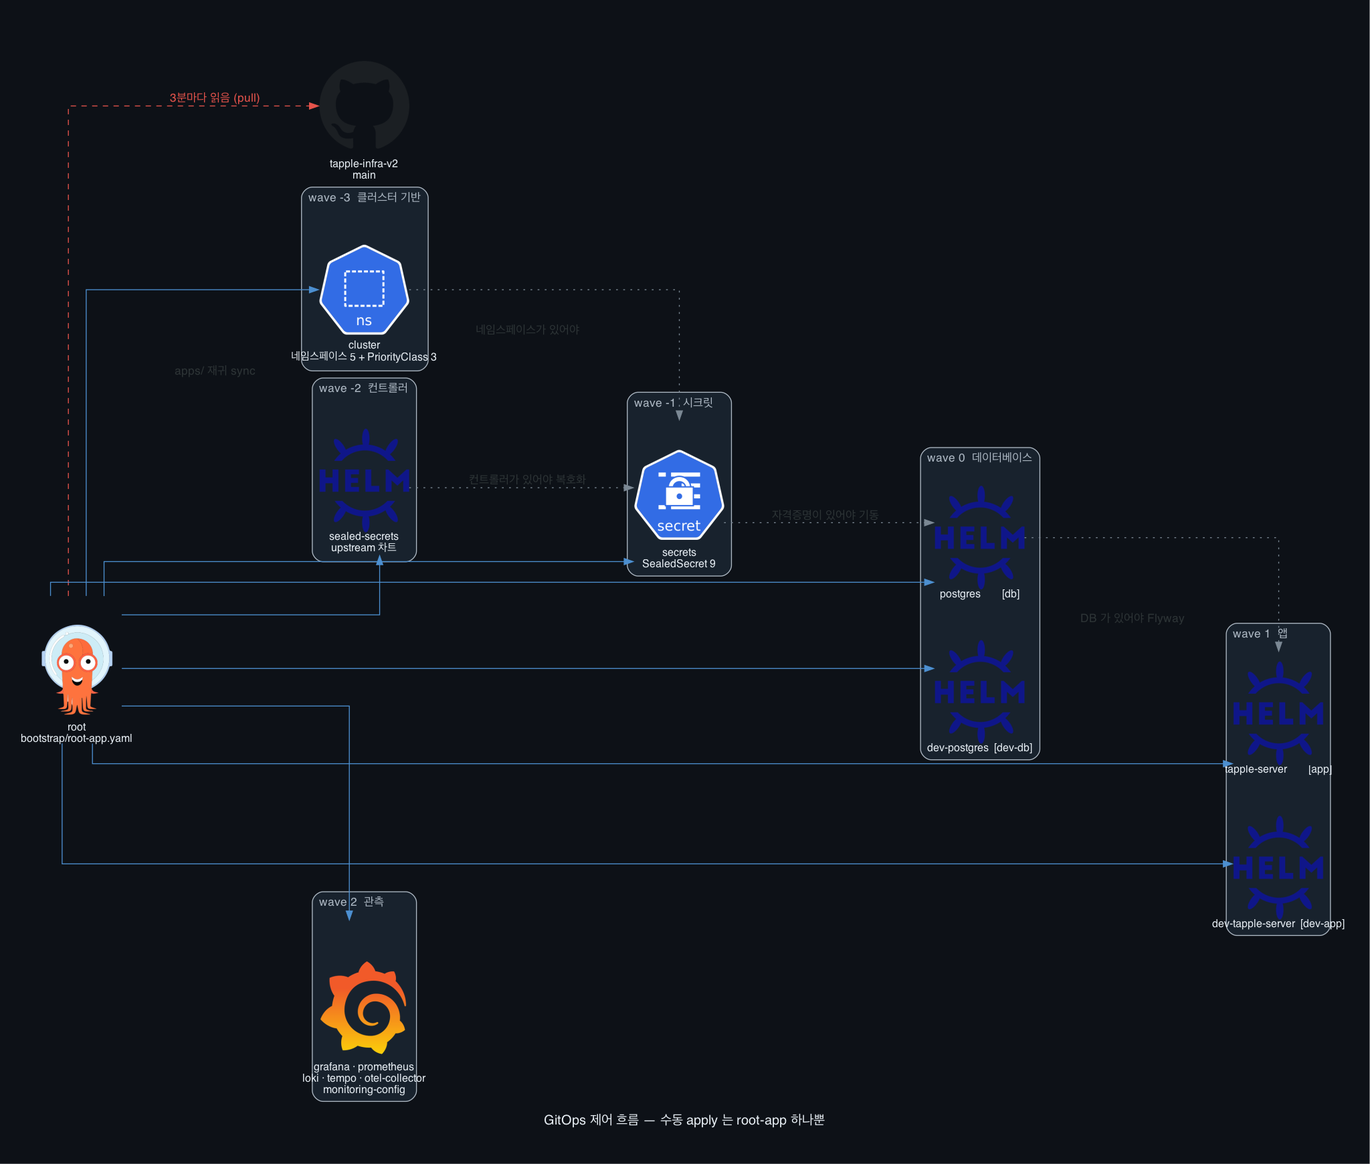
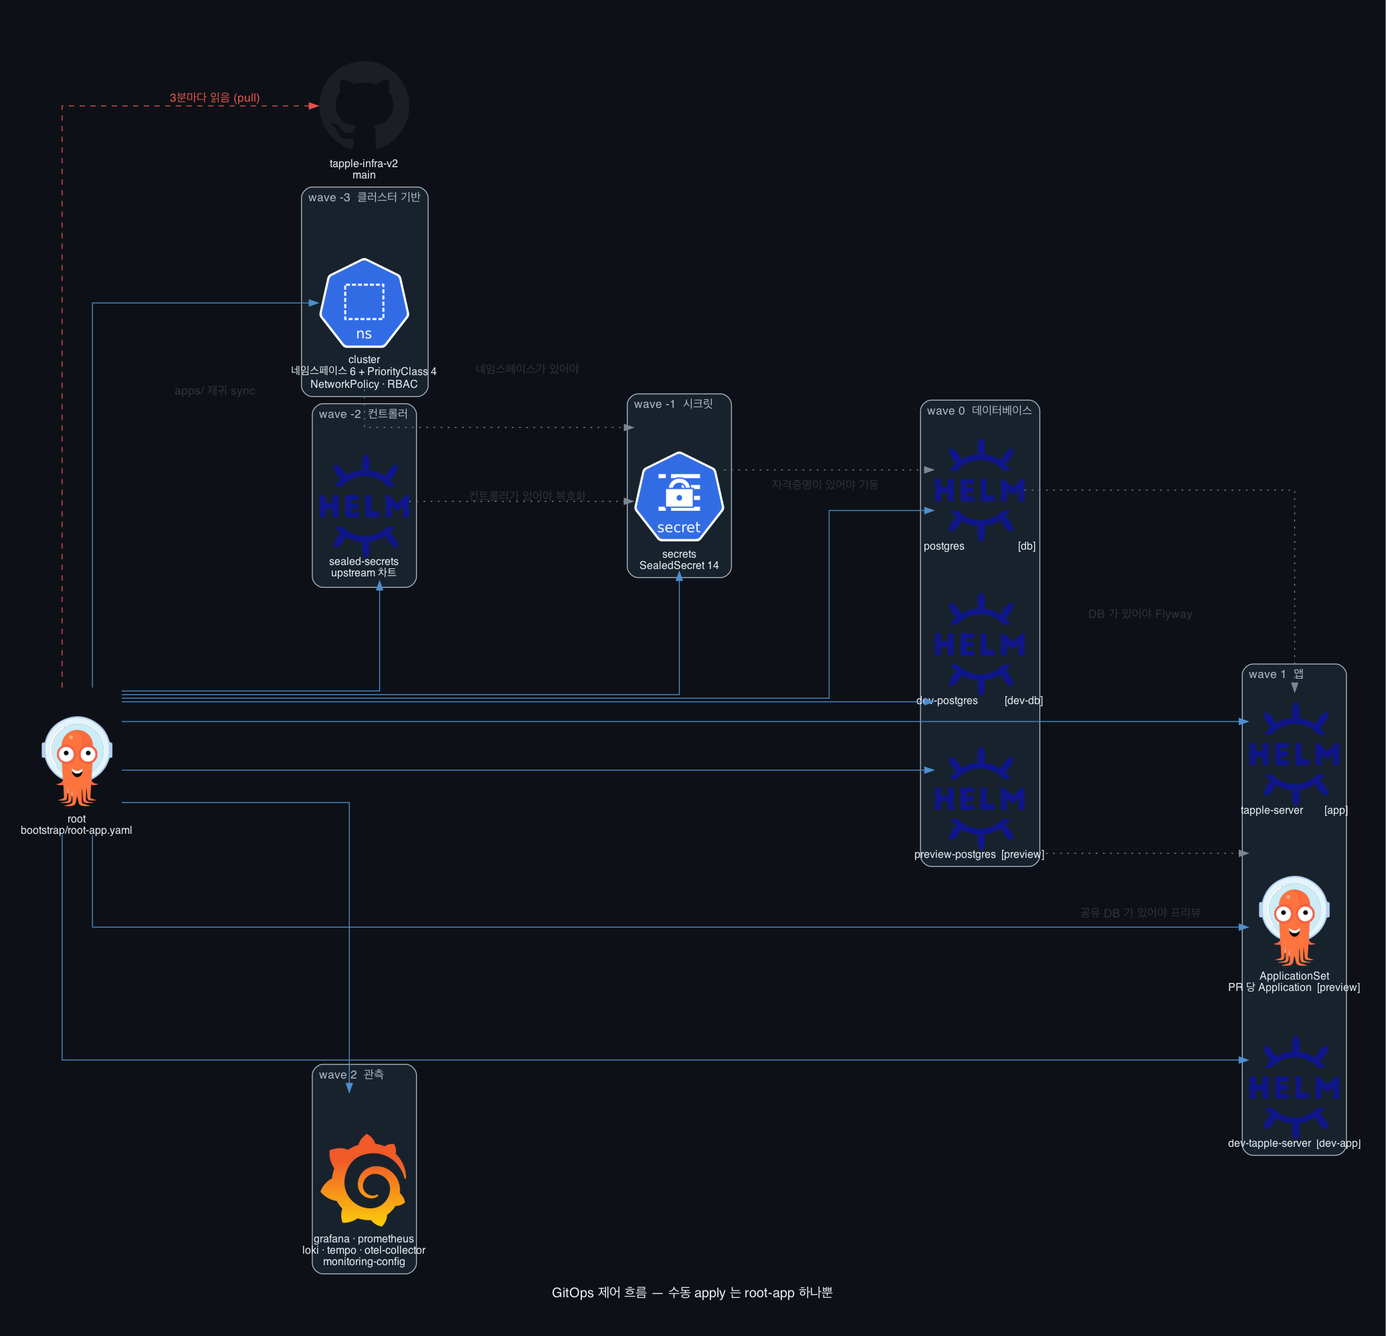
docs: README 를 지금 클러스터 사실에 맞춤 + 함정 모음 추가
낡은 사실 정정: Application 13→14(+ApplicationSet 이 런타임에 더 만듦),
네임스페이스 5→6, PriorityClass 3→4, SealedSecret 9→14.
gitops-tree 다이어그램도 같은 이유로 재생성했다(preview 두 항목 추가).

추가한 것
- PR 프리뷰 그림·요약 (지금까지 트리와 표에만 있었다)
- 네트워크 격리 절 — NetworkPolicy 대상과 port-forward 가 대상이 아닌 이유
- "실측으로 잡은 함정" 절 — netpol 반영 지연, PVC 마운트, PostSync 훅 미실행,
  Job spec 불변, volumeClaimTemplates 불변, pods/portforward 판정, ipset 바이너리 부재
- 로컬 검증에 preview 렌더 + 서버 dry-run 한계
- TODO 정리: 도메인+TLS 가 구글 로그인을 막는다는 사실을 최상단으로,
  프리뷰·netpol·PVC·팀원 접속·씰링 워크플로·BE k3s 프로파일을 완료로

diff --git a/docs/diagrams/gitops_tree.py b/docs/diagrams/gitops_tree.py
@@ -40,21 +40,25 @@ def build(theme: dict) -> None:
         root = Argocd("root\nbootstrap/root-app.yaml")
 
         with Cluster("wave -3  클러스터 기반", graph_attr=ca):
-            cluster_app = Namespace("cluster\n네임스페이스 5 + PriorityClass 3")
+            cluster_app = Namespace(
+                "cluster\n네임스페이스 6 + PriorityClass 4\nNetworkPolicy · RBAC"
+            )
 
         with Cluster("wave -2  컨트롤러", graph_attr=ca):
             sealed = Helm("sealed-secrets\nupstream 차트")
 
         with Cluster("wave -1  시크릿", graph_attr=ca):
-            secrets = Secret("secrets\nSealedSecret 9")
+            secrets = Secret("secrets\nSealedSecret 14")
 
         with Cluster("wave 0  데이터베이스", graph_attr=ca):
-            pg = Helm("postgres        [db]")
-            pg_dev = Helm("dev-postgres  [dev-db]")
+            pg = Helm("postgres                    [db]")
+            pg_dev = Helm("dev-postgres          [dev-db]")
+            pg_prev = Helm("preview-postgres  [preview]")
 
         with Cluster("wave 1  앱", graph_attr=ca):
             app = Helm("tapple-server        [app]")
             app_dev = Helm("dev-tapple-server  [dev-app]")
+            appset = Argocd("ApplicationSet\nPR 당 Application  [preview]")
 
         with Cluster("wave 2  관측", graph_attr=ca):
             mon = Grafana("grafana · prometheus\nloki · tempo · otel-collector\nmonitoring-config")
@@ -64,8 +68,10 @@ def build(theme: dict) -> None:
         root >> Edge(color=WAVE) >> secrets
         root >> Edge(color=WAVE) >> pg
         root >> Edge(color=WAVE) >> pg_dev
+        root >> Edge(color=WAVE) >> pg_prev
         root >> Edge(color=WAVE) >> app
         root >> Edge(color=WAVE) >> app_dev
+        root >> Edge(color=WAVE) >> appset
         root >> Edge(color=WAVE) >> mon
 
         root >> Edge(label="3분마다 읽음 (pull)", style="dashed", color=DEP, fontcolor=DEP) >> repo
@@ -75,6 +81,7 @@ def build(theme: dict) -> None:
         sealed >> Edge(label="컨트롤러가 있어야 복호화", style="dotted") >> secrets
         secrets >> Edge(label="자격증명이 있어야 기동", style="dotted") >> pg
         pg >> Edge(label="DB 가 있어야 Flyway", style="dotted") >> app
+        pg_prev >> Edge(label="공유 DB 가 있어야 프리뷰", style="dotted") >> appset
 
 
 if __name__ == "__main__":

diff --git a/README.md b/README.md
@@ -5,12 +5,14 @@
 앱 코드는 [tapple-be](https://github.com/Tapplee/tapple-be), AWS 시절 인프라와 **모니터링 대시보드 원본**은 [tapple-infra](https://github.com/Tapplee/tapple-infra)(v1), 부하 리그는 [tapple-loadtest](https://github.com/Tapplee/tapple-loadtest).
 
 > 현재 상태: **임시 VPS에서 검증 중** (8 vCPU/31GB Ubuntu 24.04). ingress host는 그 VPS의 `nip.io` 주소로 잡혀 있다. iwinv 노드로 옮길 때 values의 host 두 줄만 실도메인으로 교체.
+>
+> 2026-08-12 기준 **Application 15개 전부 Synced/Healthy**. 돌아가는 것: prod·dev 두 환경, PR 프리뷰(PR 당 임시 환경), DB 네트워크 격리, 팀원 최소권한 DB 접속, 모니터링 스택. **실운영은 아직 홈서버 + 로컬 compose 다.** 컷오버는 도메인+TLS 뒤.
 
 **이 레포는 public이다.** SealedSecret 암호문만 커밋하고 평문 시크릿은 절대 올리지 않는다(secret scanning + push protection 켜져 있음). ArgoCD는 public 레포라 자격증명 없이 pull한다 — private로 되돌리면 deploy key 등록이 필요해진다.
 
 ## 그림으로 보기
 
-> 2026-08-11 클러스터 스냅샷. 재생성 절차는 [docs/diagrams/README.md](docs/diagrams/README.md).
+> 2026-08-12 클러스터 스냅샷. 재생성 절차는 [docs/diagrams/README.md](docs/diagrams/README.md). CI 자동화는 없다 — 구조가 바뀌면 손으로 다시 뽑는다.
 
 **아키텍처** — 앱·DB 네임스페이스의 실제 리소스. 라이브 클러스터에서 KubeDiagrams 로 파생시킨 것이라 이 시점의 사실이다.
 
@@ -40,7 +42,7 @@
   <img alt="push에서 GitHub Actions·ghcr·인프라 레포 태그 커밋을 거쳐 ArgoCD가 pull 배포하는 흐름" src="docs/diagrams/out/cicd-flow.png">
 </picture>
 
-**브랜치 하나가 올라가는 길** — 기능 브랜치를 따서 dev 를 거쳐 prod 까지 가는 순서와, 잘못됐을 때 되돌리는 두 경로. 혼자 운영하는 전제로 그렸다. **주황이 사람이 눌러야 하는 것, 파랑이 자동, 빨강이 되돌리기**다.
+**브랜치 하나가 올라가는 길** — 기능 브랜치를 따서 dev 를 거쳐 prod 까지 가는 순서와, 잘못됐을 때 되돌리는 두 경로. **주황이 사람이 눌러야 하는 것, 파랑이 자동, 빨강이 되돌리기**다. 여러 명이 동시에 작업할 때 `dev` 를 서로 덮는 문제는 아래 PR 프리뷰가 담당한다.
 
 <picture>
   <source media="(prefers-color-scheme: dark)"  srcset="docs/diagrams/out/branch-flow-dark.png">
@@ -59,12 +61,24 @@
 
 급하면 ⓐ 로 막고, ⓑ 로 마무리한다. ⓐ 만 하고 끝내면 다음 sync 에서 되살아난다.
 
-**GitOps 제어 흐름** — 수동 apply 는 `bootstrap/root-app.yaml` 하나뿐이고, 나머지 13개 Application 은 그것이 만든다. 점선이 순서 의존(sync wave)이다.
+**PR 프리뷰** — PR 하나마다 그 브랜치만의 서버가 뜬다. `dev` 환경이 하나뿐이라 여러 명이 각자 확인하려면 `dev` 에 머지해야 하고, 나중에 머지한 사람이 앞사람 걸 덮는다. 그 문제를 없앤다. 사용법은 [docs/preview-environments.md](docs/preview-environments.md).
+
+<picture>
+  <source media="(prefers-color-scheme: dark)"  srcset="docs/diagrams/out/preview-env-dark.png">
+  <source media="(prefers-color-scheme: light)" srcset="docs/diagrams/out/preview-env.png">
+  <img alt="PR에 preview 라벨을 붙이면 이미지 빌드·ApplicationSet 감지를 거쳐 임시 환경이 생기고, PR을 닫으면 사라지는 흐름" src="docs/diagrams/out/preview-env.png">
+</picture>
+
+`preview` 라벨을 붙이면 3~5분 뒤 `pr-<번호>.api.<호스트>` 가 뜨고, PR 을 닫으면 사라진다. **라벨이 곧 자리 예약**이라 다 본 PR 은 떼야 한다 — 동시 6개가 상한이다.
+
+**GitOps 제어 흐름** — 수동 apply 는 `bootstrap/root-app.yaml` 하나뿐이고, 나머지 14개 Application 은 그것이 만든다. 점선이 순서 의존(sync wave)이다.
+
+`preview` 의 ApplicationSet 만 성질이 다르다 — Application 을 **런타임에 더 만든다**. Git 에 없는 Application 이 클러스터에 생기는 유일한 경로다.
 
 <picture>
   <source media="(prefers-color-scheme: dark)"  srcset="docs/diagrams/out/gitops-tree-dark.png">
   <source media="(prefers-color-scheme: light)" srcset="docs/diagrams/out/gitops-tree.png">
-  <img alt="root-app 하나가 wave -3부터 2까지 13개 Application을 만드는 구조" src="docs/diagrams/out/gitops-tree.png">
+  <img alt="root-app 하나가 wave -3부터 2까지 14개 Application을 만들고, preview의 ApplicationSet이 PR마다 Application을 더 만드는 구조" src="docs/diagrams/out/gitops-tree.png">
 </picture>
 
 ## 구조
@@ -75,7 +89,7 @@
 bootstrap/root-app.yaml     재구축 시 수동 apply하는 유일한 파일 (app-of-apps 루트)
 apps/                       ArgoCD Application 정의 — root가 재귀 sync
   platform/                 환경 공용
-    cluster.yaml              wave -3  → manifests/cluster/ (네임스페이스·PriorityClass)
+    cluster.yaml              wave -3  → manifests/cluster/ (네임스페이스·PriorityClass·RBAC)
     sealed-secrets.yaml       wave -2  upstream 차트 (시크릿 복호화 컨트롤러)
     secrets.yaml              wave -1  → secrets/ (prod·dev 모두 커버)
     monitoring/               wave 2   기존 compose 스택 이식 — prod·dev 공유
@@ -88,18 +102,21 @@ apps/                       ArgoCD Application 정의 — root가 재귀 sync
   preview/                    PR 프리뷰 — docs/preview-environments.md
     postgres.yaml               공유 DB 1대                          [preview]
     applicationset.yaml         PR 하나당 Application 자동 생성·삭제
-charts/tapple-server/       자작 Helm 차트 (환경 공용) + values.yaml(prod)·values-dev.yaml
-manifests/cluster/          네임스페이스 5개 + PriorityClass 3종
-manifests/postgres/         prod DB — StatefulSet·Service·백업 CronJob
-manifests/postgres-dev/     dev DB — 축소판 (백업 없음, 우선순위 최하)
+charts/tapple-server/       자작 Helm 차트 (환경 공용) + values.yaml(prod)·values-dev.yaml·values-preview.yaml
+manifests/cluster/          네임스페이스 6개 + PriorityClass 4종 + team-access.yaml (팀원 RBAC)
+manifests/postgres/         prod DB — StatefulSet·Service·NetworkPolicy·백업 CronJob·읽기전용 롤 Job
+manifests/postgres-dev/     dev DB — 축소판 (백업 없음, 우선순위 최하) + NetworkPolicy
 manifests/postgres-preview/ 프리뷰 공유 DB + 고아 database 정리 CronJob
 manifests/monitoring/       대시보드 7개 + 알림 규칙 ConfigMap — 전부 gen-configmaps.py 산출물, 직접 고치지 말 것
-secrets/                    kubeseal로 암호화된 SealedSecret만 (평문 금지 — secrets/README.md)
+secrets/                    kubeseal로 암호화된 SealedSecret 14종 (평문 금지 — secrets/README.md)
 infra/                      노드 부트스트랩 셸 스크립트 (Phase 1~2)
 scripts/gen-configmaps.py   v1의 대시보드·규칙 원본 → ConfigMap 변환
+scripts/gen-team-kubeconfig.sh  팀원용 SA 토큰 kubeconfig 발급 (기본 90일)
+.github/workflows/seal-secret.yml  SSH 없이 시크릿 재씰링 — Actions 금고 값을 읽어 secrets/ 에 커밋
 runbooks/                   재해 복구 절차
 docs/db-access.md           팀원 DB 접속 가이드 (port-forward + 최소권한 RBAC)
 docs/preview-environments.md  PR 프리뷰 사용법 — 팀원이 먼저 읽을 문서
+docs/diagrams/              위 그림들의 생성 스크립트 (직접 실행, CI 자동화 없음)
 ```
 
 ## 동작 원리 (한 줄씩)
@@ -109,6 +126,8 @@ docs/preview-environments.md  PR 프리뷰 사용법 — 팀원이 먼저 읽을
 - **앱만 Helm**: 배포마다 바뀌는 값(image.tag)이 있는 건 앱뿐. DB는 바뀔 값이 없어 raw yaml (D17·D19).
 - **upstream은 vendoring 안 함** (D16): Application 안에 차트 repo URL + `valuesObject`만.
 - **배포 트리거는 앱 레포**: tapple-be의 `cd-gitops.yml`이 ghcr에 이미지를 밀고 이 레포의 `image.tag` 한 줄을 커밋한다. ArgoCD가 그걸 감지해 배포.
+- **프리뷰는 Git 에 없다**: ApplicationSet 이 GitHub PR 목록을 2분마다 읽어 `preview` 라벨이 붙은 PR 만큼 Application 을 만든다. 라벨을 떼거나 PR 을 닫으면 지운다 — 커밋이 필요 없는 유일한 배포 경로다.
+- **시크릿은 레포에서 다시 만든다**: 클러스터에 SSH 하지 않는다. Actions 금고에 값을 넣고 `seal-secret.yml` 을 돌리면 워크플로가 공개 인증서로 씰링해 `secrets/` 에 커밋한다.
 
 ## 모니터링 원본은 이 레포가 아니다
 
@@ -148,6 +167,18 @@ python3 scripts/gen-configmaps.py /다른/경로/config       # 원본 위치가
 
 **동시 프리뷰는 6개까지다.** 노드 여유(9.8Gi)를 PR 당 1Gi 로 나눈 값이고, 7번째는 `Pending` 에서 멈춘다. `preview` 라벨이 곧 자리 예약이라 다 본 PR 은 라벨을 떼야 한다.
 
+## 네트워크 격리
+
+**네임스페이스는 이름만 나눈다. 네트워크는 막지 않는다.** NetworkPolicy 가 없으면 `monitoring` 이든 `preview` 든 어느 파드에서나 `postgres.db.svc:5432` 에 붙을 수 있다. 프리뷰처럼 짧게 살다 사라지는 워크로드가 늘수록 위험해지므로 DB 두 대를 닫았다.
+
+| 대상 | 허용 | 파일 |
+|---|---|---|
+| prod DB | `app` · `db` 네임스페이스만 | `manifests/postgres/networkpolicy.yaml` |
+| dev DB | `dev-app` · `dev-db` 네임스페이스만 | `manifests/postgres-dev/networkpolicy.yaml` |
+| 프리뷰 DB | 제한 없음 | 프리뷰 전용 데이터라 의도적으로 열어둠 |
+
+팀원의 `kubectl port-forward` 는 **NetworkPolicy 대상이 아니다** — kubelet 이 노드에서 프록시하므로 파드 간 트래픽이 아니다. 그 경로의 접근 통제는 RBAC(`manifests/cluster/team-access.yaml`)이 한다.
+
 ## 리소스 예산 (8 vCPU / 32GB 노드)
 
 `system-reserved`로 OS+k3s 몫 2Gi/1000m을 떼면 **allocatable ≈ 30Gi / 7 vCPU**.
@@ -177,13 +208,22 @@ helm template dev-tapple-server charts/tapple-server \
   -f charts/tapple-server/values.yaml \
   -f charts/tapple-server/values-dev.yaml --set image.tag=test
 
+# preview 렌더 (ApplicationSet 이 넘기는 값은 --set 으로 흉내낸다)
+helm template tapple-preview-27 charts/tapple-server \
+  -f charts/tapple-server/values.yaml \
+  -f charts/tapple-server/values-preview.yaml \
+  --set image.tag=test --set fullnameOverride=tapple-server-pr-27 \
+  --set createDatabase.name=tapple_pr27
+
 helm lint charts/tapple-server --set image.tag=test
 ```
+
+클러스터가 있으면 `kubectl apply --dry-run=server -f <파일>` 이 훨씬 많이 잡는다 — 불변 필드 위반은 이것만 잡는다. **단 Job 은 spec 이 불변이라 이 검사를 통과할 수 없다**(위 함정 항목).
 
 ## 노드에 올리는 순서
 
 ```
-①infra/node-bootstrap.sh  →  ②infra/k3s-setup.sh  →  ③시크릿 9종  →  앱 Running
+①infra/node-bootstrap.sh  →  ②infra/k3s-setup.sh  →  ③시크릿 14종  →  앱 Running
 ```
 
 ②의 마지막 스텝이 `bootstrap/root-app.yaml`을 apply하고, 그때 sealed-secrets 컨트롤러가 뜬다. 시크릿을 **새로 만들어야 하는 경우**엔 그 뒤에만 가능하다(클러스터 공개키로 암호화) — 그전까지 DB·grafana·alertmanager 파드는 `CreateContainerConfigError`가 정상이다.
@@ -192,22 +232,49 @@ helm lint charts/tapple-server --set image.tag=test
 
 앱 파드는 `image.tag`가 비어 있으면 Application이 `Unknown`으로 남는다(의도된 가드). tapple-be의 `cd-gitops.yml`이 태그를 커밋해야 뜬다.
 
+## 실측으로 잡은 함정
+
+읽어서는 안 나오고 돌려봐야 나온 것들. 매니페스트 주석에도 같은 내용이 붙어 있다.
+
+**DB 에 붙는 Job 이 `Connection refused` 로 즉사한다.** k3s 의 NetworkPolicy 구현(kube-router)은 허용 대상 파드 IP 를 ipset 으로 관리하는데, 파드가 뜬 직후에는 그 IP 가 아직 셋에 없다. 그 창의 패킷은 `KUBE-POD-FW-*` 마지막 `REJECT --reject-with icmp-port-unreachable` 에 걸려 **timeout 이 아니라 refused** 로 돌아온다 — 그래서 방화벽 문제로 보이지 않는다. 오래 사는 파드는 재시도로 넘어가고 짧게 살다 죽는 Job 만 걸린다. 대응: 접속 전 `pg_isready` 대기 루프(최대 120초). `postgres-readonly-role` Job 이 이걸로 조용히 Failed 가 돼 `tapple_ro` 롤이 사라져 있었다.
+
+**PVC 를 한 단계 위에 마운트하면 데이터가 조용히 사라진다.** `postgres:16` 이미지가 `/var/lib/postgresql/data` 를 `VOLUME` 으로 선언하므로 PVC 를 그 부모에 마운트하면 containerd 익명 볼륨이 PVC 를 덮는다. 쓰기는 성공하고 조회도 되는데 파드를 지우면 전부 날아간다. 원안이 `postgres:18` 기준이었고 16 으로 내리며 경로를 안 바꾼 것이 원인. 대응: `mountPath` 를 그 경로에 정확히 맞추고 `PGDATA` 를 그 하위(`/pgdata`)로.
+
+**ArgoCD PostSync 훅이 이 클러스터에서 실행되지 않는다.** 컨트롤러가 매 sync 계획에는 넣으면서 실행 단계에서 `skipHooks:true` 로 건너뛴다. 대응: 계정 생성 같은 필수 작업은 훅이 아니라 추적 리소스(Job)로 둔다.
+
+**Job 의 spec 은 불변이라 `apply` 로 못 고친다.** `Replace=true` 만 주면 `kubectl replace` 가 되는데 Job 의 `spec.selector` 는 컨트롤러가 만드는 값이라 매니페스트에 없다 → `spec.selector: Required value` 로 거부된다. 대응: `sync-options: Force=true,Replace=true`(삭제 후 재생성). **처음 생성될 때는 create 라 드러나지 않고 매니페스트를 고친 뒤에야 터진다.**
+
+**StatefulSet 의 `volumeClaimTemplates` 는 불변이다.** 라벨 하나만 추가해도 기존 워크로드 갱신이 admission 에서 거부된다. 대응: 손대기 전에 `kubectl apply --dry-run=server` 로 확인.
+
+**`kubectl auth can-i create pods/portforward` 는 권한이 있어도 `no` 를 답한다**(kubectl 1.36). 슬래시를 서브리소스로 해석하지 않는다. 대응: `--subresource=portforward`.
+
+**노드에 `ipset` 바이너리가 없다.** 그래서 `ipset list` 가 조용히 빈 출력을 내는데, 셋이 비었다고 오독하기 쉽다. netpol 을 파볼 때 `apt-get install ipset` 먼저.
+
+PR 프리뷰 쪽 함정 4개(라벨 필터 위치, sprig `substr` 인자 순서, PR 이벤트의 머지 커밋 체크아웃, URL 계열을 시크릿에 넣으면 안 되는 이유)는 [docs/preview-environments.md](docs/preview-environments.md#밟기-쉬운-함정-구축-중-실제로-밟은-것) 에 있다.
+
 ## 남은 TODO
 
+- [ ] **도메인 + TLS** — 지금은 nip.io `http`. **이것 때문에 k3s 세 환경(prod·dev·preview) 전부 구글 로그인이 안 된다** (Google OAuth 는 리다이렉트 URI 사전 등록 + HTTPS 요구). 로그인 화면 확인은 홈서버에서. 고칠 곳은 `values.yaml`·`values-dev.yaml` 의 `ingress.host` 와 ApplicationSet 의 프리뷰 호스트
 - [ ] Discord webhook 실값 — 지금은 더미라 알림이 아무데도 가지 않는다 (홈서버 `.env`도 `CHANGEME`)
-- [ ] 컷오버 전 로테이션 — AWS 키·Google 시크릿·JWT 키. 지금 클러스터엔 앞 둘이 더미로 들어가 있다
-- [ ] `ghcr-pull` 시크릿 2종 — 첫 이미지가 ghcr에 올라간 뒤. 패키지를 public으로 두면 불필요
-- [ ] 도메인 확정 — 지금은 nip.io. `charts/tapple-server/values.yaml`·`values-dev.yaml`의 `ingress.host` 두 줄
-- [ ] tapple-be에 `INFRA_REPO_TOKEN` 시크릿 등록 + `cd-gitops.yml` push 트리거 주석 해제 (컷오버 시)
+- [ ] 컷오버 전 로테이션 — AWS 키·Google 시크릿·JWT 키. 지금 클러스터엔 더미가 들어가 있다. `JWT_SECRET_KEY` 를 바꾸면 전원이 즉시 로그아웃되고, `SLUG_RESERVATION_HMAC_KEY` 는 이전 키를 `previousKeys` 에 **남긴 채** 버전만 올려야 한다
+- [ ] `PREVIEW_GITHUB_TOKEN` 만료 관리 — fine-grained PAT 이라 만료되면 **프리뷰가 조용히 안 뜬다**. 증상은 ApplicationSet 상태의 `error fetching Secret token`
 - [ ] upstream 차트 버전 5종 설치 시점 최신 고정 (sealed-secrets + monitoring 4종 — 내부 이미지 태그는 compose와 동일하게 이미 고정)
 - [ ] iwinv 플랜 상품 코드·월 요금 확인 — 매니페스트는 **8 vCPU / 32GB** 기준
 - [ ] Traefik `trustedIPs`(Cloudflare 대역) — 없으면 로그·레이트리밋에 실 사용자 IP 대신 Cloudflare IP가 찍힘
 - [ ] ghcr retention — 오래된 이미지 자동 삭제 (최근 N개 + 배포 중 태그는 보존)
 - [ ] 매니페스트 lint CI (helm template·kubeconform)
-- [ ] 대시보드의 AWS 잔재 정리 — `AWS Region`·`RDS Instance` 변수와 그 패널들이 CloudWatch 데이터소스를 요구한다. k3s 에는 Prometheus·Loki·Tempo·Alertmanager 4종만 프로비저닝돼 있어 해당 패널은 에러로 뜬다 (원본은 v1 소유)
 - [ ] 팀원 kubeconfig 발급 — [docs/db-access.md](docs/db-access.md) §6 (토큰 기본 90일, 만료 시 재발급)
-- [ ] BE의 `prod` 프로파일에서 CloudWatch appender 제거 또는 k3s 전용 프로파일 — AWS 떠난 뒤엔 무의미
-- [x] 시크릿 7종 씰링 (`secrets/`) — 부팅 필수값만 실값, 나머지 더미
+- [~] 대시보드의 AWS 잔재 — `AWS Region`·`RDS Instance` 변수와 그 패널들이 CloudWatch 데이터소스를 요구해 k3s 에서는 에러로 뜬다. **그대로 두기로 결정**했다 (원본은 v1 소유이고 부하 리그가 같은 파일을 쓴다)
+- [x] PR 프리뷰 환경 — ApplicationSet(PR 생성기) + 공유 DB + PR 당 database. PR #27 로 전 과정 실측
+- [x] DB 네트워크 격리 — prod·dev DB 에 NetworkPolicy. 5경우 실측
+- [x] DB 접속 Job 의 NetworkPolicy 대기 루프 — 위 함정 항목 참고
+- [x] PVC 마운트 경로 — 데이터가 익명 볼륨에 쌓이던 것 수정, 파드 삭제 후 생존 실측
+- [x] 팀원 DB 접속 — `team-access` SA + 최소권한 Role, `scripts/gen-team-kubeconfig.sh`
+- [x] SSH 없는 시크릿 재씰링 — `.github/workflows/seal-secret.yml`
+- [x] 시크릿 14종 씰링 (`secrets/`) — 부팅 필수값만 실값, 나머지 더미
+- [x] `ghcr-pull` 시크릿 3종 (prod·dev·preview)
+- [x] BE 로그 분리 — `k3s` 프로파일 추가. `prod`·`dev` 프로파일이 `@Profile("!prod")` 등으로 코드에 물려 있어 이름을 못 바꿨고, `prod & !k3s` 조건으로 CloudWatch appender 만 뺐다
+- [x] tapple-be `cd-gitops.yml` 브랜치→환경 판정 + `INFRA_REPO_TOKEN` 등록 + push 트리거 활성
 - [x] k3s v1.36.3+k3s1 · ArgoCD v3.5.0 버전 고정 (`infra/k3s-setup.sh`)
 - [x] DB명(`tapple`)·Hikari 풀(10) ↔ `max_connections=60` 매칭
 - [x] 알림 채널 — Discord webhook, 기존 alertmanager 라우팅 그대로
